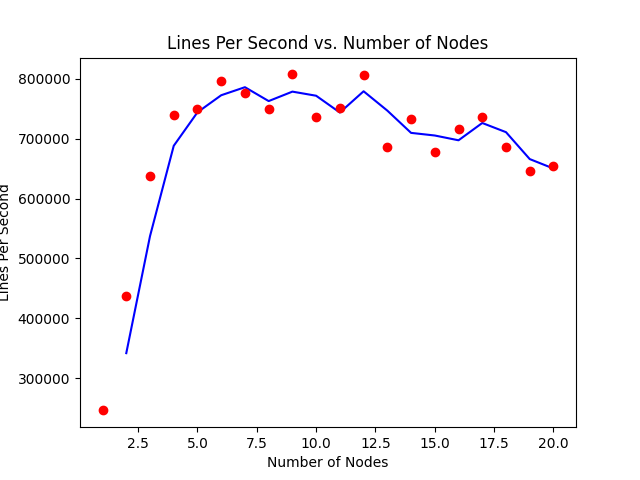
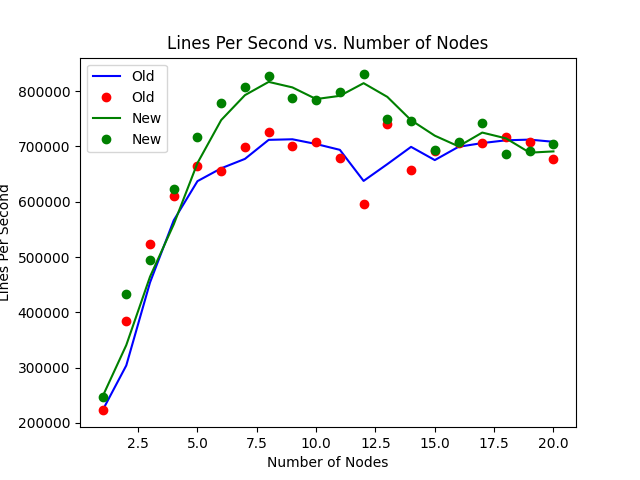
Compared the new tokenizer pipeline to the old one

diff --git a/analysis.py b/analysis.py
@@ -1,0 +1,41 @@
+import matplotlib.pyplot as plt
+import numpy as np
+
+
+def main():
+    with open("./benchmarkResultsLarger", "r") as f:
+        lines_per_second_old = []
+        for line in f:
+            if line.startswith("Lines per second"):
+                lines_per_second_old.append(float(line.split()[-1]))
+
+    with open("./benchmarkResultsLarger_NewLexer", "r") as f:
+        lines_per_second_new = []
+        for line in f:
+            if line.startswith("Lines per second"):
+                lines_per_second_new.append(float(line.split()[-1]))
+
+    smoothed_old = [
+        np.mean(lines_per_second_old[max(0, i - 1):min(i + 1, len(lines_per_second_old) - 1)]) for i in range(len(lines_per_second_old))
+    ]
+    smoothed_new = [
+        np.mean(lines_per_second_new[max(0, i - 1):min(i + 1, len(lines_per_second_new) - 1)]) for i in range(len(lines_per_second_new))
+    ]
+
+    plt.xlabel('Number of Nodes')
+    plt.ylabel('Lines Per Second')
+    plt.title('Lines Per Second vs. Number of Nodes')
+
+    plt.plot(range(1, len(lines_per_second_old) + 1), smoothed_old, c='blue', label="Old")
+    plt.plot(range(1, len(lines_per_second_old) + 1), lines_per_second_old, "ro", label="Old")
+
+    plt.plot(range(1, len(lines_per_second_new) + 1), smoothed_new, c='green', label="New")
+    plt.plot(range(1, len(lines_per_second_new) + 1), lines_per_second_new, "go", label="New")
+
+    plt.legend(loc='upper left')
+    plt.show()
+
+
+if __name__ == "__main__":
+    main()
+

diff --git a/protocol/src/nonblocking/mapper.rs b/protocol/src/nonblocking/mapper.rs
@@ -29,14 +29,20 @@ impl Mapper {
 
             match payload {
                 Some(Payload::Work { block }) => {
-                    // TODO: Mapper
-                    let block = String::from_utf8(block.to_vec()).unwrap();
+                    let block = block
+                        .iter()
+                        .map(|byte| *byte as char)
+                        .collect::<Vec<char>>();
+
                     let mut tokens: HashMap<String, u32> = HashMap::new();
-                    for word in block.split(|c: char| !c.is_alphanumeric()) {
+                    let lexer = nlp::lexer::Lexer::new(&block);
+
+                    for word in lexer.into_iter() {
                         let word = word.to_lowercase();
                         let count = tokens.entry(word).or_insert(0);
                         *count += 1;
                     }
+
                     let payload = Payload::WorkOk { tokens };
                     protocol
                         .send_msg(&mut self.send_master_socket, payload)

diff --git a/testing/src/main.rs b/testing/src/main.rs
@@ -29,7 +29,7 @@ fn main() {
         .spawn()
         .expect("failed to execute process");
     println!("Waiting for master to start");
-    thread::sleep(Duration::from_secs(10));
+    thread::sleep(Duration::from_secs(2));
 
     let start = Instant::now();
     let mappers: Vec<Child> = (0..n_mappers)

diff --git a/protocol/src/nonblocking/master.rs b/protocol/src/nonblocking/master.rs
@@ -169,7 +169,7 @@ async fn dispatch_reducer(stream: TcpStream, inlet: Receiver<Payload>) {
                 }
             }
         }
-        println!("Processed {} lines", recv_count);
+        // println!("Processed {} lines", recv_count);
     });
 
     sender.await.unwrap();

diff --git a/nlp/src/lib.rs b/nlp/src/lib.rs
@@ -1,2 +1,2 @@
-mod lexer;
+pub mod lexer;
 mod snowball;
